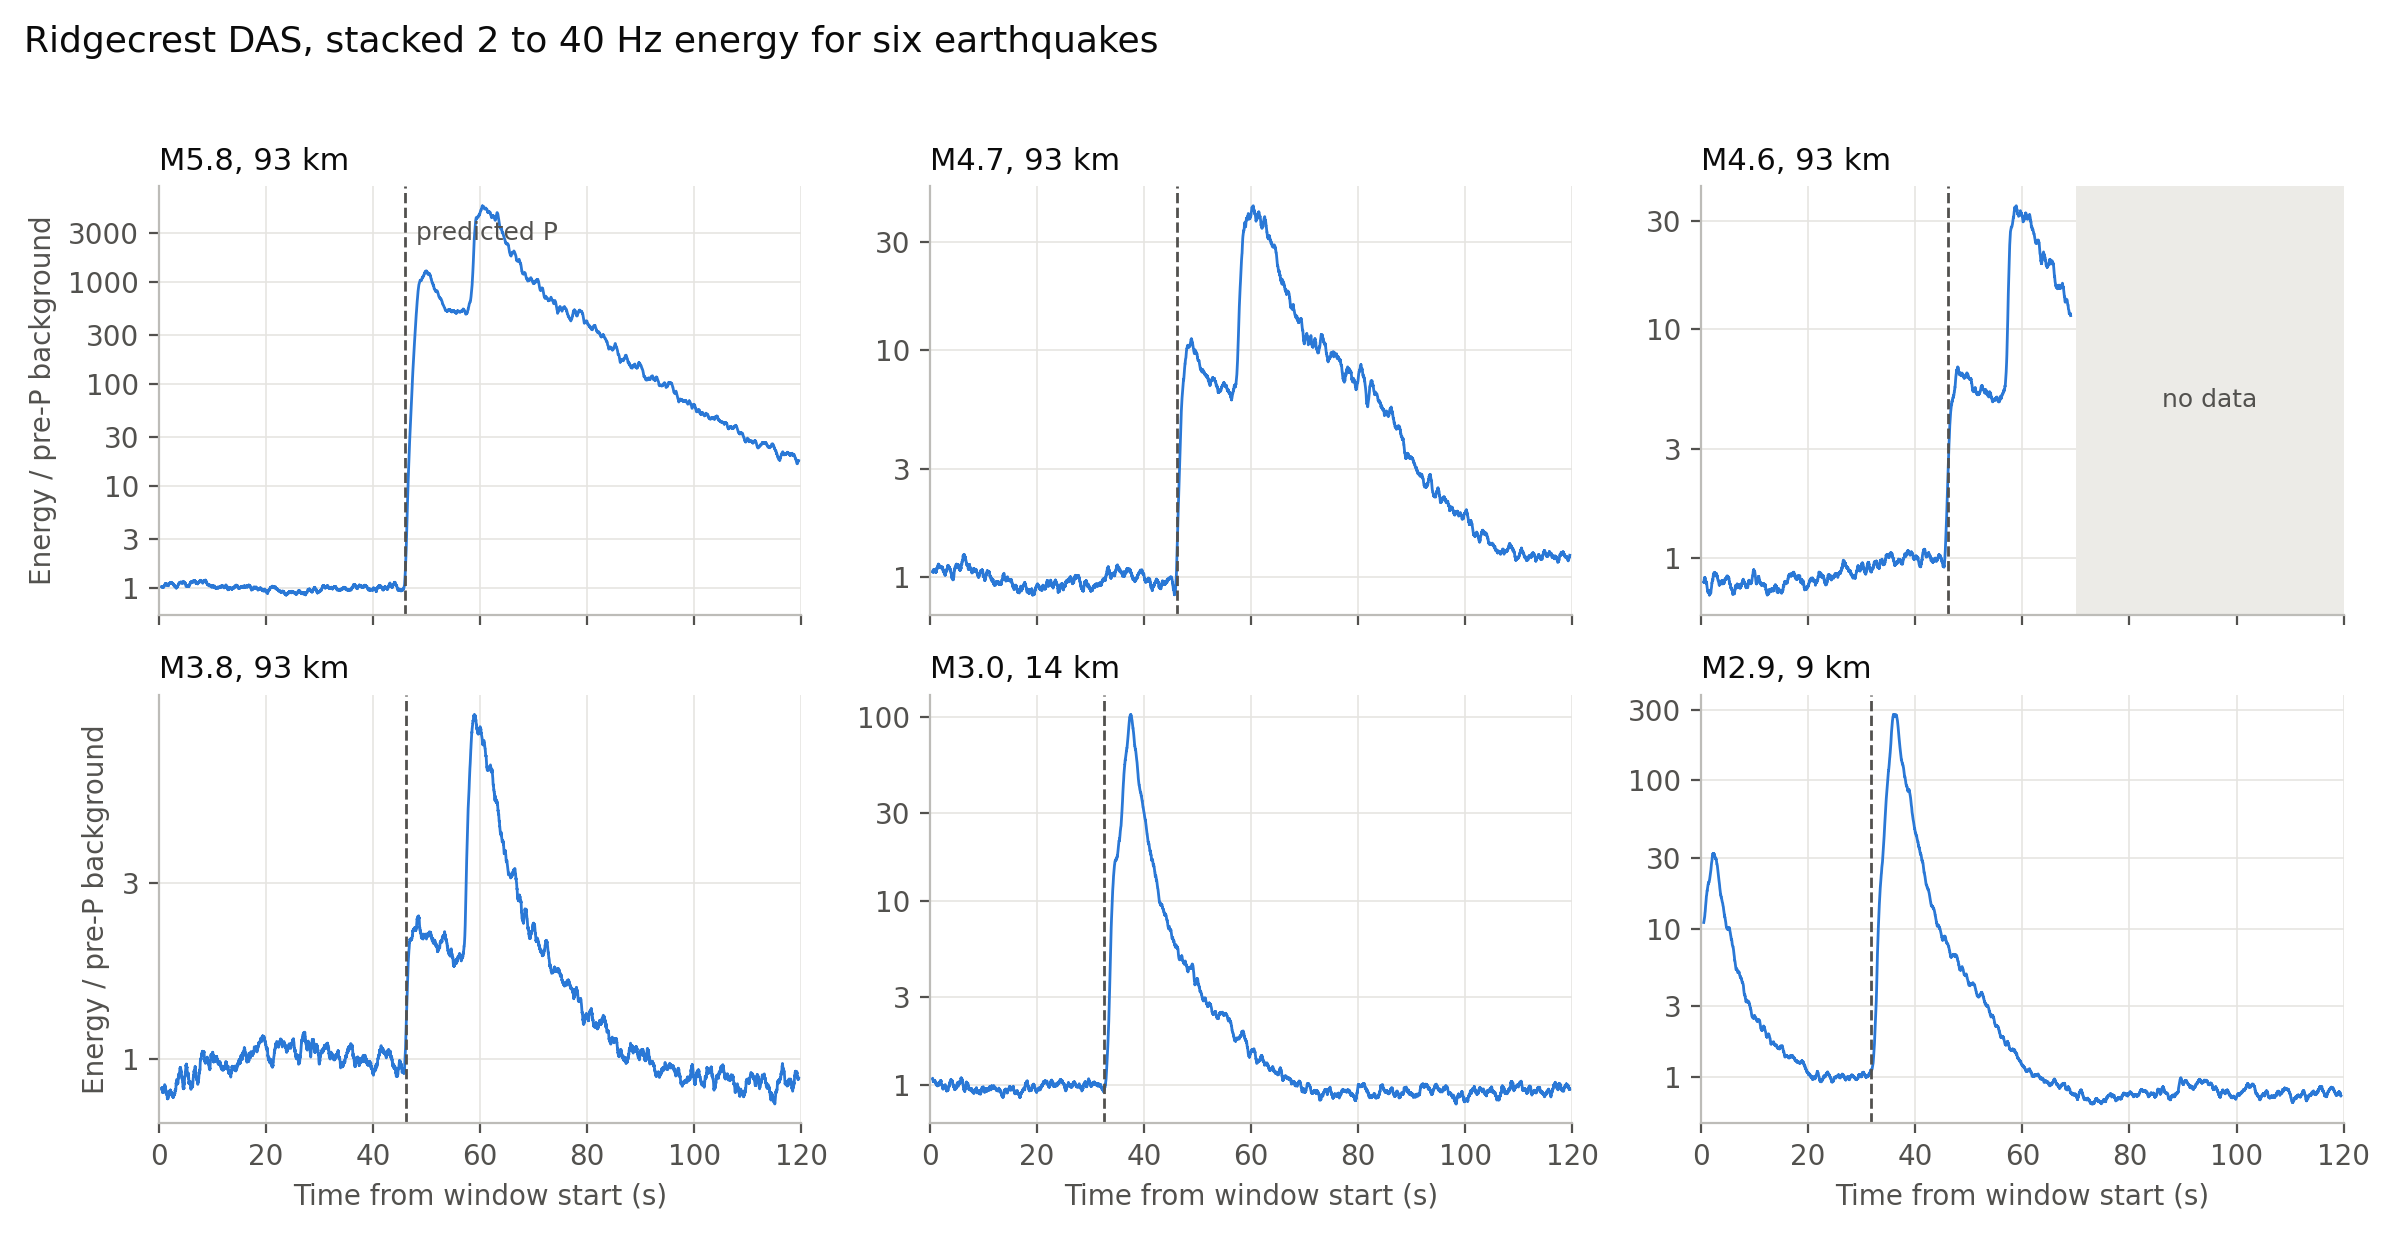
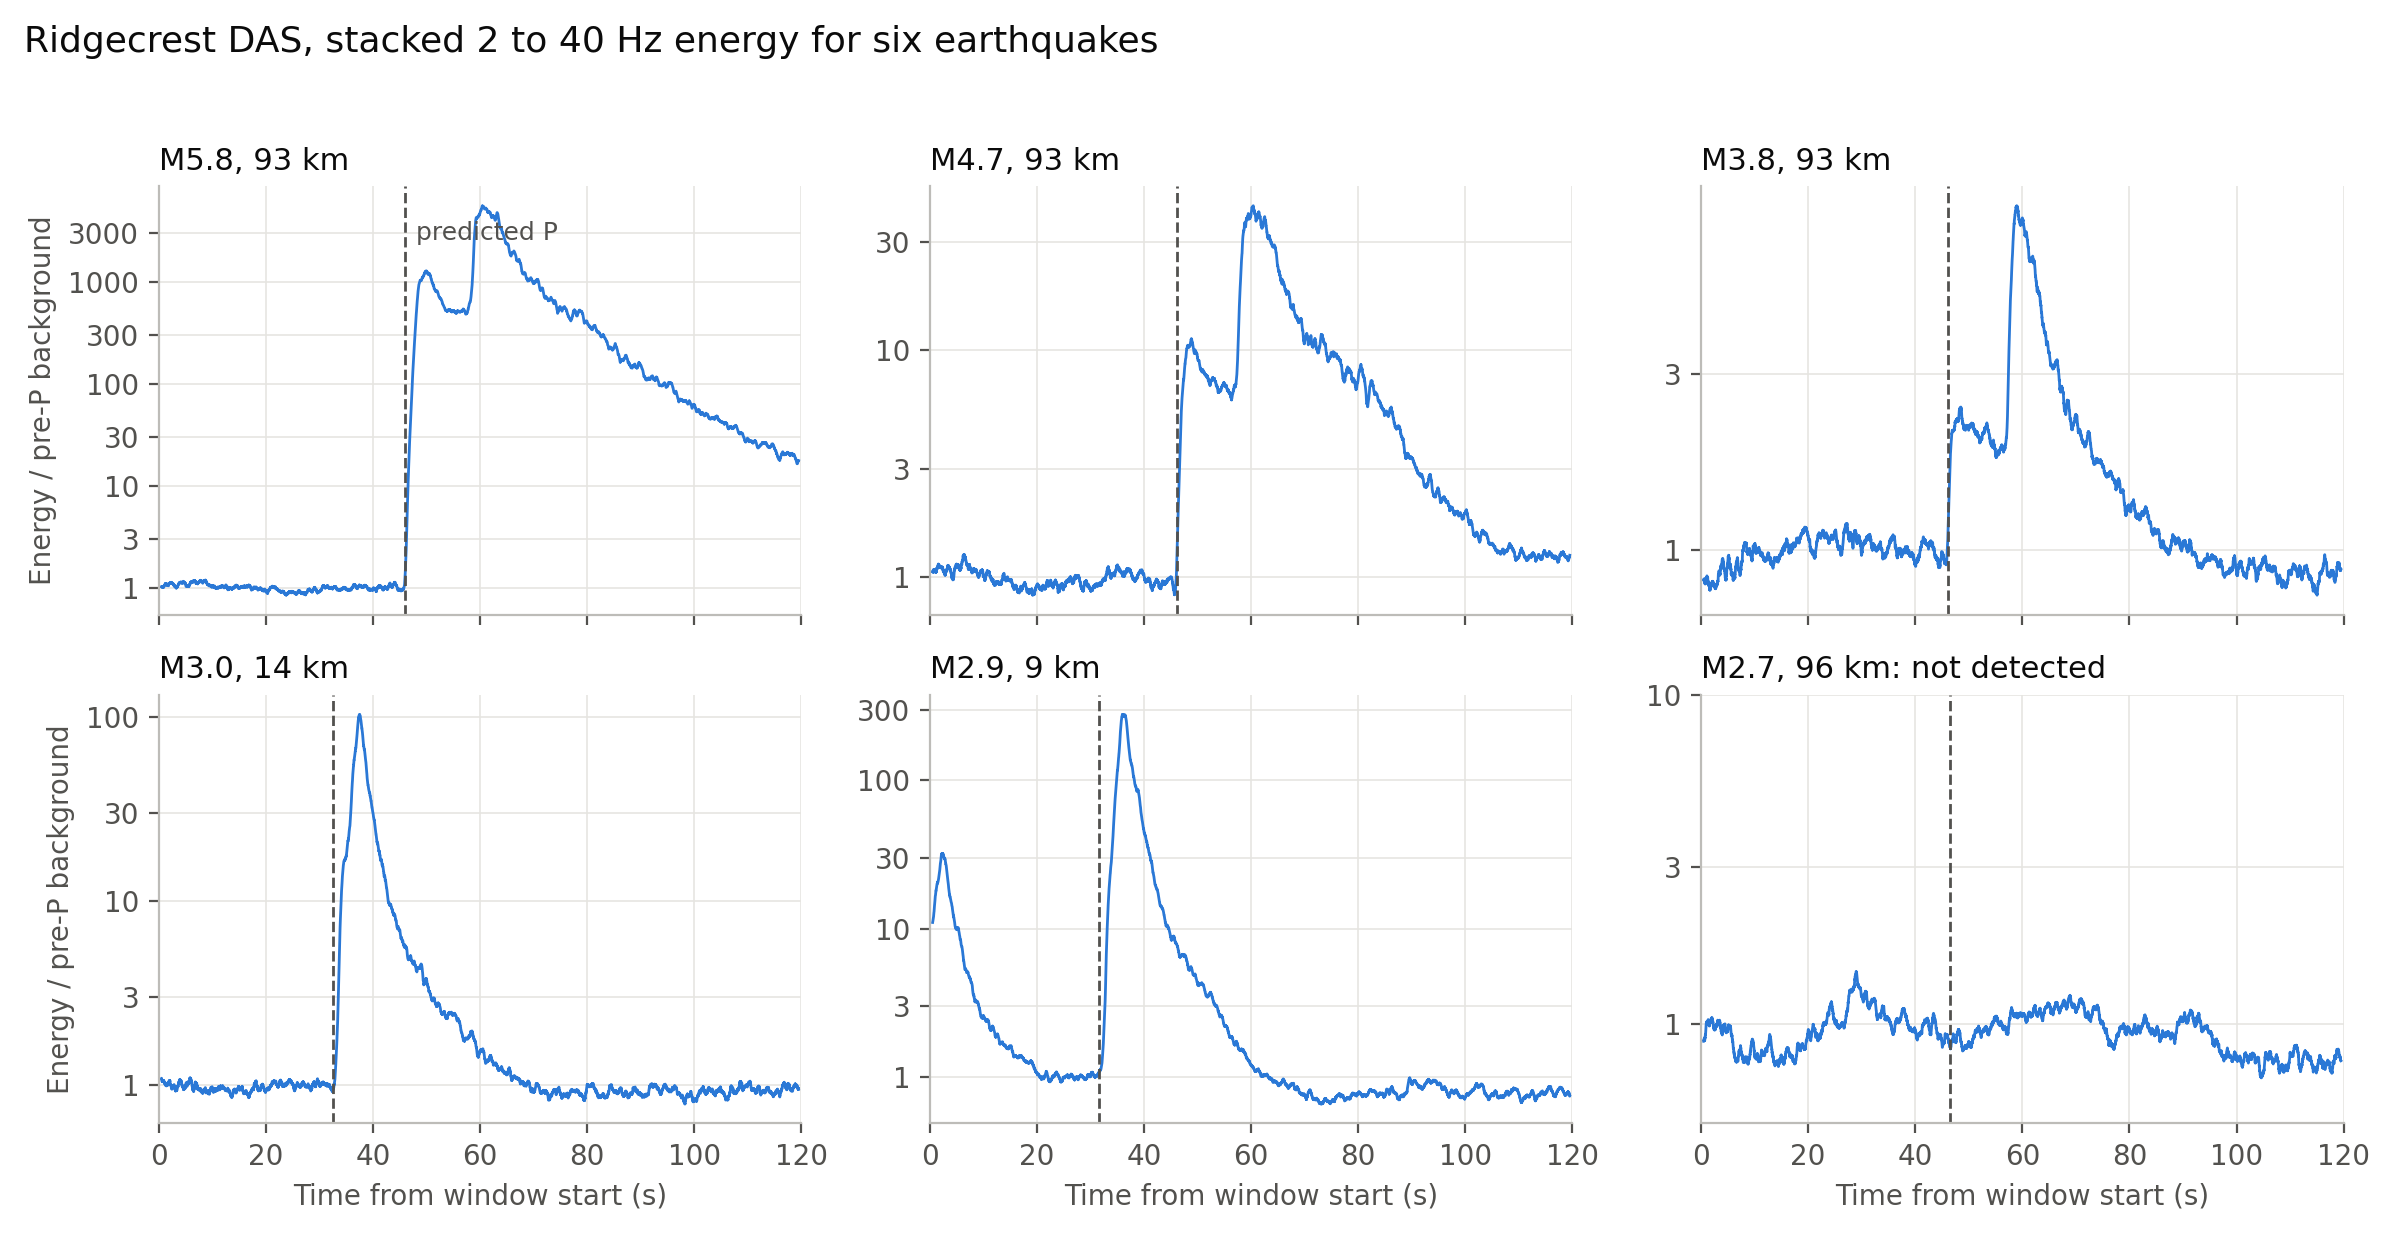
Replace M4.6 panel with an M2.7 non-detection in Ridgecrest figure
Swap ci39494008 (M4.6, zero-filled after ~70 s) for ci37280444 (M2.7,
96 km), titled not detected. Fix its y-axis to 0.5-10 (log) so its
noise is on a scale comparable to the M3.8 panel.

diff --git a/scripts/fig_ridgecrest_detection.py b/scripts/fig_ridgecrest_detection.py
@@ -1,6 +1,6 @@
 """
-Presentation figure: envelope stacks for the six Ridgecrest events with a clear
-arrival, 2 x 3 panels, predicted P marked.
+Presentation figure: envelope stacks for six Ridgecrest events (five with a clear
+arrival, one below the detection threshold), 2 x 3 panels, predicted P marked.
 
 Usage, from the top of the repo:
     python scripts/fig_ridgecrest_detection.py
@@ -24,8 +24,12 @@ from src.das_io import load_das_event                    # noqa: E402
 from stack_checks import envelope_stack, p_from_metadata  # noqa: E402
 
 DATA_DIR = ROOT / "data" / "ridgecrest_north" / "data"
-EVENTS = ["ci39493944", "ci39494008", "ci39490952",      # M5.8, 4.6, 4.7 at 93 km
-          "ci39491208", "ci39492720", "ci38595986"]      # M3.8 at 93 km, M2.9-3.0 close
+EVENTS = ["ci39493944", "ci39490952", "ci39491208",      # M5.8, 4.7, 3.8 at 93 km
+          "ci39492720", "ci38595986",                    # M2.9-3.0 close
+          "ci37280444"]                                  # M2.7 at 96 km, below threshold
+NOTES = {"ci37280444": "not detected"}                   # appended to the panel title
+# fixed y-range so pre-P noise in a non-detection doesn't look like an arrival
+YLIM = {"ci37280444": (0.5, 10)}
 
 LINE = "#2a78d6"
 P_COLOR = "#52514e"
@@ -54,18 +58,21 @@ def main():
         gap_start = np.argmax(zero) / fs if zero.any() else None
         if gap_start is not None:
             y = np.where(t >= gap_start - 1.0, np.nan, y)
-        panels.append((meta["magnitude"], info["dist_km"], p, t, y, gap_start))
+        title = f"M{meta['magnitude']:.1f}, {info['dist_km']:.0f} km"
+        if ev in NOTES:
+            title += f": {NOTES[ev]}"
+        panels.append((meta["magnitude"], title, p, t, y, gap_start, YLIM.get(ev)))
     panels.sort(key=lambda q: -q[0])
 
     fig, axs = plt.subplots(2, 3, figsize=(12, 6.2), sharex=True)
-    for ax, (mag, km, p, t, y, gap_start) in zip(axs.ravel(), panels):
+    for ax, (mag, title, p, t, y, gap_start, ylim) in zip(axs.ravel(), panels):
         ax.semilogy(t, y, color=LINE, lw=1.0)
         if gap_start is not None:
             ax.axvspan(gap_start, 120, color="#ecebe7", lw=0)
             ax.text((gap_start + 120) / 2, 0.5, "no data", transform=ax.get_xaxis_transform(),
                     ha="center", va="center", color=MUTED, fontsize=9)
         ax.axvline(p, color=P_COLOR, ls="--", lw=1.0)
-        ax.set_title(f"M{mag:.1f}, {km:.0f} km", color=INK, fontsize=11, loc="left")
+        ax.set_title(title, color=INK, fontsize=11, loc="left")
         ax.grid(True, which="major", color="#e6e5e1", lw=0.6)
         ax.set_axisbelow(True)
         for s in ("top", "right"):
@@ -74,6 +81,8 @@ def main():
         ax.yaxis.set_major_locator(LogLocator(base=10, subs=(1.0, 3.0)))
         ax.yaxis.set_major_formatter(FuncFormatter(lambda v, _: f"{v:g}"))
         ax.yaxis.set_minor_locator(NullLocator())
+        if ylim is not None:
+            ax.set_ylim(*ylim)
     axs[0, 0].text(axs[0, 0].get_lines()[1].get_xdata()[0] + 2, 0.92, "predicted P",
                    transform=axs[0, 0].get_xaxis_transform(), color=P_COLOR, fontsize=9,
                    va="top")
